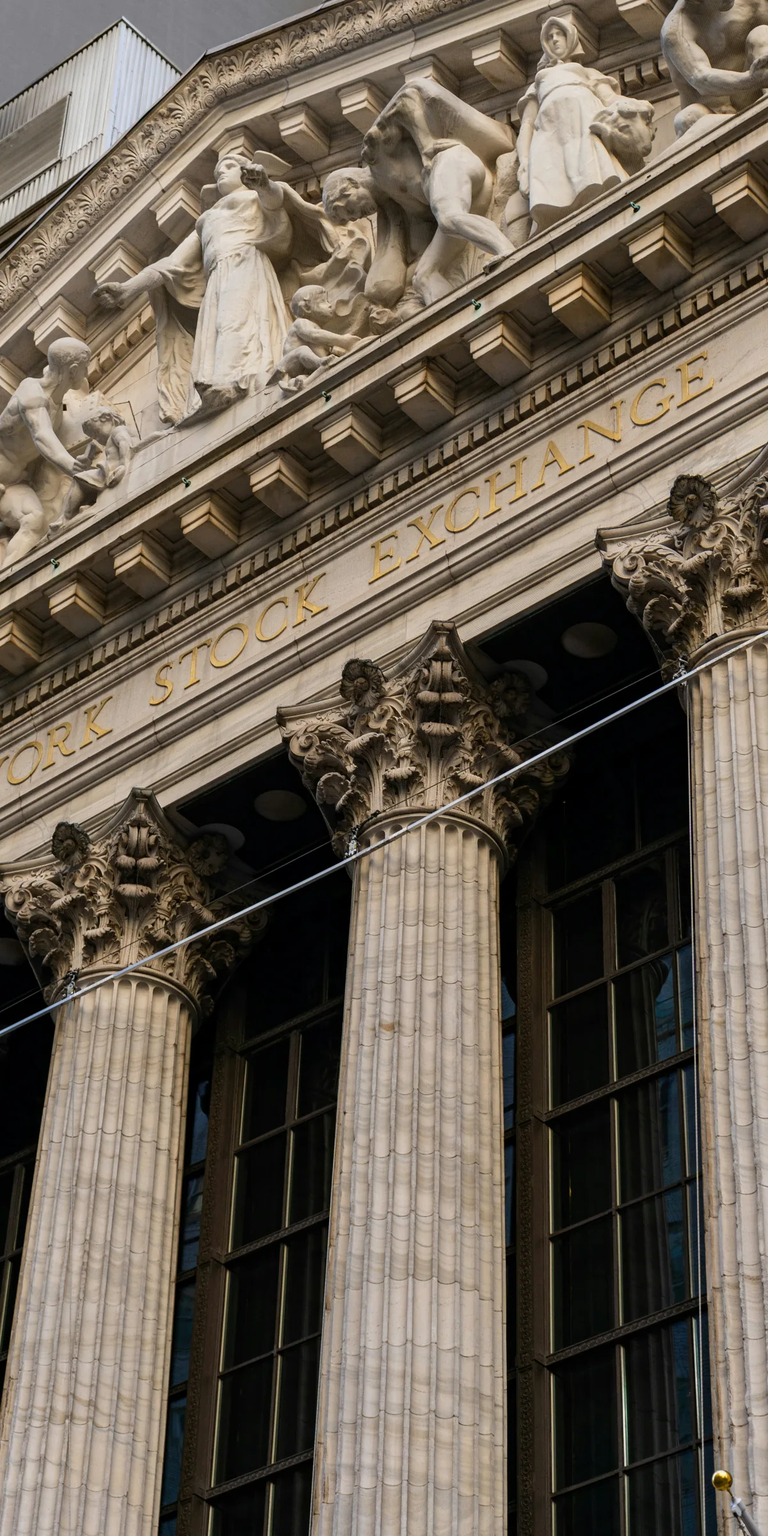
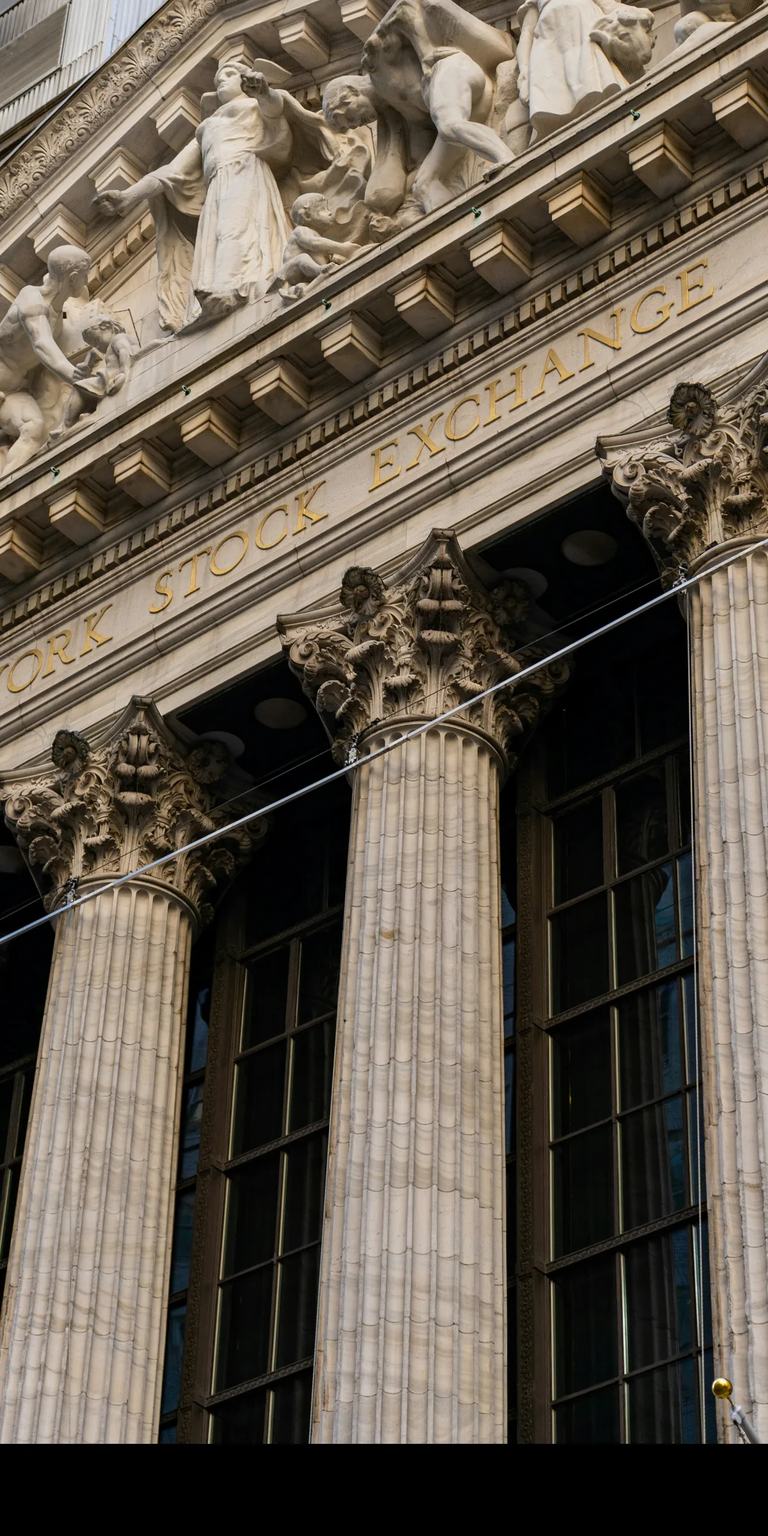
fix(eden): inscription clear on phones and small laptops, crop fixes
Codex polish pass: the phone hero keeps the facade above the headline at
any height with the shade drawn by the text; 901-1279px laptops get a
narrower column; bio and dinner quote photos keep heads in frame; labels
balance; a 3600px hero for large retina screens.

Claude-Session: https://claude.ai/code/session_01AVuXZ5kQdp4DsNtLwqtREc

diff --git a/src/styles/home-2026.css b/src/styles/home-2026.css
@@ -165,6 +165,28 @@
   max-width: 36rem;
 }
 
+/* Smaller laptops: the photo is cut to the screen's height, so the
+   inscription sits further left; a narrower column keeps "STOCK" clear of
+   the paragraph. */
+@media (min-width: 901px) and (max-width: 1279px) {
+  .look-2026 .hero--cinema .hero__text {
+    max-width: 25rem;
+  }
+
+  .look-2026 .hero__bg::after {
+    background:
+      linear-gradient(to bottom, transparent 66%, var(--paper) 100%),
+      linear-gradient(90deg, rgba(2, 4, 8, 0.8) 0%, rgba(2, 4, 8, 0.8) 24%, rgba(3, 5, 15, 0.58) 46%, rgba(5, 10, 30, 0.04) 100%);
+  }
+
+  .look-2026.theme-light .hero__bg::after {
+    background:
+      linear-gradient(to bottom, color-mix(in srgb, var(--paper) 78%, transparent) 0, transparent 150px),
+      linear-gradient(to bottom, transparent 66%, var(--paper) 100%),
+      linear-gradient(90deg, var(--paper) 0%, var(--paper) 24%, color-mix(in srgb, var(--paper) 84%, transparent) 40%, color-mix(in srgb, var(--paper) 30%, transparent) 58%, transparent 78%);
+  }
+}
+
 /* Editorial (light): the headline alone on one line across the content
    width, a hairline, then the deck, paragraph and buttons (columns 1-5)
    beside a 3:2 photo (columns 7-12). */
@@ -243,39 +265,53 @@
    where the text sits. Editorial: the headline takes two lines and
    everything stacks, the photo last. */
 @media (max-width: 900px) {
+  /* Room for the facade and its "STOCK EXCHANGE" above the headline, short
+     phones included (the hero then runs past the first screen). */
   .look-2026 .hero--cinema {
     min-height: 100svh;
+    padding-top: calc(var(--nav-h) + 270px);
+    overflow: clip;
   }
 
   .look-2026 .hero__bg img {
     object-position: 50% 0%;
   }
 
+  /* On the photo only the nav's shade at the top and the page color at the
+     very bottom; the dark behind the words travels with them (::before
+     below), so it starts just above the headline at any screen height. */
   .look-2026 .hero__bg::after {
-    /* Dark at the very top too, so the nav and menu icon read over the
-       stonework. */
-    background: linear-gradient(to bottom, rgba(3, 5, 15, 0.58) 0, rgba(5, 10, 30, 0.04) 150px, rgba(5, 10, 30, 0.04) 30%, rgba(3, 5, 15, 0.58) 42%, rgba(2, 4, 8, 0.8) 60%, var(--paper) 100%);
+    background:
+      linear-gradient(to bottom, rgba(3, 5, 15, 0.58) 0, rgba(5, 10, 30, 0.04) 150px),
+      linear-gradient(to bottom, transparent 85%, var(--paper) 100%);
   }
 
-  /* Short phones and phones held sideways: the text fills most of the
-     screen and the headline rises into the bright stonework, so the dark
-     starts at the top. */
-  @media (max-height: 760px) {
-    .look-2026 .hero__bg::after {
-      background: linear-gradient(to bottom, rgba(3, 5, 15, 0.7) 0, rgba(2, 4, 8, 0.92) 55%, var(--paper) 100%);
-    }
+  .look-2026 .hero--cinema .hero__inner {
+    position: relative;
   }
 
-  /* Light theme on phones: the facade at the top, melting into solid paper
-     before the headline. */
+  .look-2026 .hero--cinema .hero__inner::before {
+    content: '';
+    position: absolute;
+    z-index: -1;
+    top: -48px;
+    bottom: -100vh;
+    left: 50%;
+    width: 100vw;
+    transform: translateX(-50%);
+    background: linear-gradient(to bottom, transparent 0, rgba(3, 5, 15, 0.58) 48px, rgba(2, 4, 8, 0.8) 160px);
+    pointer-events: none;
+  }
+
+  /* Light theme: the same, in paper. */
   .look-2026.theme-light .hero__bg::after {
-    background: linear-gradient(to bottom, color-mix(in srgb, var(--paper) 72%, transparent) 0, transparent 140px, transparent 28%, color-mix(in srgb, var(--paper) 86%, transparent) 40%, var(--paper) 50%);
+    background:
+      linear-gradient(to bottom, color-mix(in srgb, var(--paper) 72%, transparent) 0, transparent 140px),
+      linear-gradient(to bottom, transparent 85%, var(--paper) 100%);
   }
 
-  @media (max-height: 760px) {
-    .look-2026.theme-light .hero__bg::after {
-      background: linear-gradient(to bottom, color-mix(in srgb, var(--paper) 72%, transparent) 0, color-mix(in srgb, var(--paper) 60%, transparent) 10%, var(--paper) 30%);
-    }
+  .look-2026.theme-light .hero--cinema .hero__inner::before {
+    background: linear-gradient(to bottom, transparent 0, color-mix(in srgb, var(--paper) 86%, transparent) 48px, var(--paper) 130px);
   }
 
   .look-2026 .hero--editorial .hero__title {
@@ -1408,6 +1444,6 @@
   }
 
   .look-2026 .bio__photo img {
-    object-position: 50% 25%;
+    object-position: 50% 0%;
   }
 }

diff --git a/index.html b/index.html
@@ -35,7 +35,7 @@
   <link rel="preconnect" href="https://fonts.googleapis.com">
   <link rel="preconnect" href="https://fonts.gstatic.com" crossorigin>
   <link rel="stylesheet" href="https://fonts.googleapis.com/css2?family=Geist:wght@400;500&family=Newsreader:opsz,wght@6..72,300;6..72,400&display=swap">
-  <link rel="preload" as="image" fetchpriority="high" media="(min-width: 901px)" href="/assets/images/home/hero-cinema-1920.webp" imagesrcset="/assets/images/home/hero-cinema-1280.webp 1280w, /assets/images/home/hero-cinema-1920.webp 1920w, /assets/images/home/hero-cinema-2600.webp 2600w" imagesizes="100vw">
+  <link rel="preload" as="image" fetchpriority="high" media="(min-width: 901px)" href="/assets/images/home/hero-cinema-1920.webp" imagesrcset="/assets/images/home/hero-cinema-1280.webp 1280w, /assets/images/home/hero-cinema-1920.webp 1920w, /assets/images/home/hero-cinema-2600.webp 2600w, /assets/images/home/hero-cinema-3600.webp 3600w" imagesizes="100vw">
   <link rel="preload" as="image" fetchpriority="high" media="(max-width: 900px)" href="/assets/images/home/hero-cinema-tall-750.webp" imagesrcset="/assets/images/home/hero-cinema-tall-750.webp 750w, /assets/images/home/hero-cinema-tall-1200.webp 1200w" imagesizes="100vw">
   <script type="application/ld+json">
 {

diff --git a/src/pages/home.js b/src/pages/home.js
@@ -175,7 +175,7 @@ function buildHero() {
     <section class="hero hero--cinema" aria-labelledby="hero-title">
       <div class="hero__bg" aria-hidden="true">
         ${picture({
-          dir: HOME_DIR, base: HERO_IMAGE.base, widths: [1280, 1920, 2600], sizes: '100vw',
+          dir: HOME_DIR, base: HERO_IMAGE.base, widths: [1280, 1920, 2600, 3600], sizes: '100vw',
           alt: '', width: 2600, height: 1625, eager: true, fallback: 1600,
           narrow: { media: '(max-width: 900px)', base: HERO_IMAGE.tall, widths: [750, 1200], sizes: '100vw' },
         })}

diff --git a/src/styles/dinners-2026.css b/src/styles/dinners-2026.css
@@ -206,14 +206,19 @@
     margin-bottom: var(--s-7);
   }
 
-  /* The wide crop keeps the whole chandelier over the table. */
+  /* The skyline dinner: the table and the lit windows. */
   .look-2026 .dresults__photo img {
-    object-position: 62% 22%;
+    object-position: 50% 55%;
   }
 
   .look-2026 .dquote-band__photo {
     aspect-ratio: 3 / 2;
     margin-top: var(--s-7);
+  }
+
+  /* The wide crop of the two guests keeps their heads in frame. */
+  .look-2026 .dquote-band__photo img {
+    object-position: 50% 20%;
   }
 }
 

diff --git a/src/styles/look-2026.css b/src/styles/look-2026.css
@@ -225,6 +225,7 @@ html:has(> body.look-2026) {
   letter-spacing: 0.14em;
   text-transform: uppercase;
   color: var(--ink-muted);
+  text-wrap: balance;
 }
 
 .look-2026 .t-lead {

diff --git a/DESIGN.md b/DESIGN.md
@@ -151,7 +151,7 @@ Two families, two weights each, loaded from Google Fonts.
 - **Section rhythm:** major sections get `clamp(80px, 10vw, 136px)` of vertical padding. Compact bands (the proof numbers, the logo rows, the footer) get `clamp(48px, 6vw, 72px)`, as in the mockup, so the page doesn't become a run of identical blocks. Sections are separated by space and hairlines, not boxes.
 - **Hero, light theme:** the cinematic hero below with the paper in place of the dark: solid paper under the text (to 28% of the width), the facade coming through to the right, a light veil along the top for the nav, and paper again at the bottom; on phones the facade sits at the top and melts into solid paper before the headline (Joe, 2026-10-22: the framed hero was "a little underwhelming... I like how you have the background image for the dark version... something like that, but in light").
 - **Hero, light theme, editorial (behind the build flag):** the headline alone on one line across the content width, a hairline, then the deck, paragraph and buttons in columns 1-6 beside a framed 3:2 photo of the NYSE pediment in columns 7-12.
-- **Hero (cinematic, like the live site):** the NYSE photo (later Ebony's sizzle reel, the "landing background video") runs edge to edge under a clear nav, behind the live hero overlay's near-black laid left to right (dark where the text sits, lighter over the facade) and fading into the page at the bottom. The headline in two lines (up to 120px), then the deck, paragraph and buttons, all at the bottom left in about 36rem. The overlay uses the live hero's colors with each stop about 12 points lighter (0.8, 0.58, 0.04; Joe, 2026-10-22: "lighten that the black overlay like another 10, 15%... so you can actually read the word stock exchange"); its darkest stop holds across the text column (to 30% of the width) so the statues sit beside the words, not behind them. The crop (from the 4000px original) puts "STOCK EXCHANGE" in full to the right of the text on laptops and above the headline on phones. The hero fills about the first screen (94svh, 620-1000px); on short laptop screens the headline shrinks so the buttons stay in the first screen. Phones use a tall crop, darker toward the bottom where the text sits; short phones (up to 760px tall) and phones held sideways are dark from the top, since the headline rises into the bright stonework. The nav is clear over the hero and turns into the live frosted bar once the page scrolls. (Joe, 2026-10-22, on the framed editorial hero in dark: "not crazy about this landing section".) Text contrast over the photo is checked at every width (worst-case pixel under each line): every line is above 7.5:1 in both themes.
+- **Hero (cinematic, like the live site):** the NYSE photo (later Ebony's sizzle reel, the "landing background video") runs edge to edge under a clear nav, behind the live hero overlay's near-black laid left to right (dark where the text sits, lighter over the facade) and fading into the page at the bottom. The headline in two lines (up to 120px), then the deck, paragraph and buttons, all at the bottom left in about 36rem. The overlay uses the live hero's colors with each stop about 12 points lighter (0.8, 0.58, 0.04; Joe, 2026-10-22: "lighten that the black overlay like another 10, 15%... so you can actually read the word stock exchange"); its darkest stop holds across the text column (to 30% of the width) so the statues sit beside the words, not behind them. The crop (from the 4000px original) puts "STOCK EXCHANGE" in full to the right of the text on laptops and above the headline on phones. The hero fills about the first screen (94svh, 620-1000px); on short laptop screens the headline shrinks so the buttons stay in the first screen. On laptops from 901 to 1279px the text column narrows to 25rem and the overlay's dark stop ends sooner, so "STOCK" clears the paragraph. Phones use a tall crop with the facade and the inscription at the top: the headline starts at least 270px below the nav (on short phones the hero runs past the first screen), and the shade behind the words is drawn by the text block itself (it starts 48px above the headline), so it never covers the inscription at any screen height. The light theme does the same in paper. The wide photo ships up to 3600px for large retina screens. The nav is clear over the hero and turns into the live frosted bar once the page scrolls. (Joe, 2026-10-22, on the framed editorial hero in dark: "not crazy about this landing section".) Text contrast over the photo is checked at every width (worst-case pixel under each line): every line is above 7.5:1 in both themes.
 - **Grid:** 12 columns on desktop. Statement sections run headline on the left (7 columns) and supporting text on the right (4 columns, offset 1). Three-up rows (case studies, industries) use equal columns.
 - **Breakpoints:** 640px, 900px, 1200px. Rows choose their own tablet layout (three-up rows can go to two plus one, logo grids to 3 then 2 columns); everything is one column below 640px.
 - **Images:** square corners, fixed aspect ratios so nothing shifts while loading. Case study images are 16:9 and industry images 3:2. Every photo file is at least as wide as its largest retina display size (about 2x the CSS width), so nothing is upscaled into blur: take the largest original available, never a small crop of a small file. Each industry photo has to say its industry at a glance (Joe, 2026-10-21: a building "doesn't make any sense with digital assets"): golden columns for Financial Services, a BTCUSD candlestick chart for Digital Assets, RoboStrategy's humanoid robot ringing the Nasdaq closing bell for Frontier Technology (Eden's own client moment, Oct 22; the industry photos are moving toward real client moments where Eden has them). Crops are complete compositions (no sculpture sliced at the edge), dark photos are brightened until their subject reads, and nothing shows a dated price or a third-party app brand. Never grey stone that reads as black and white.
